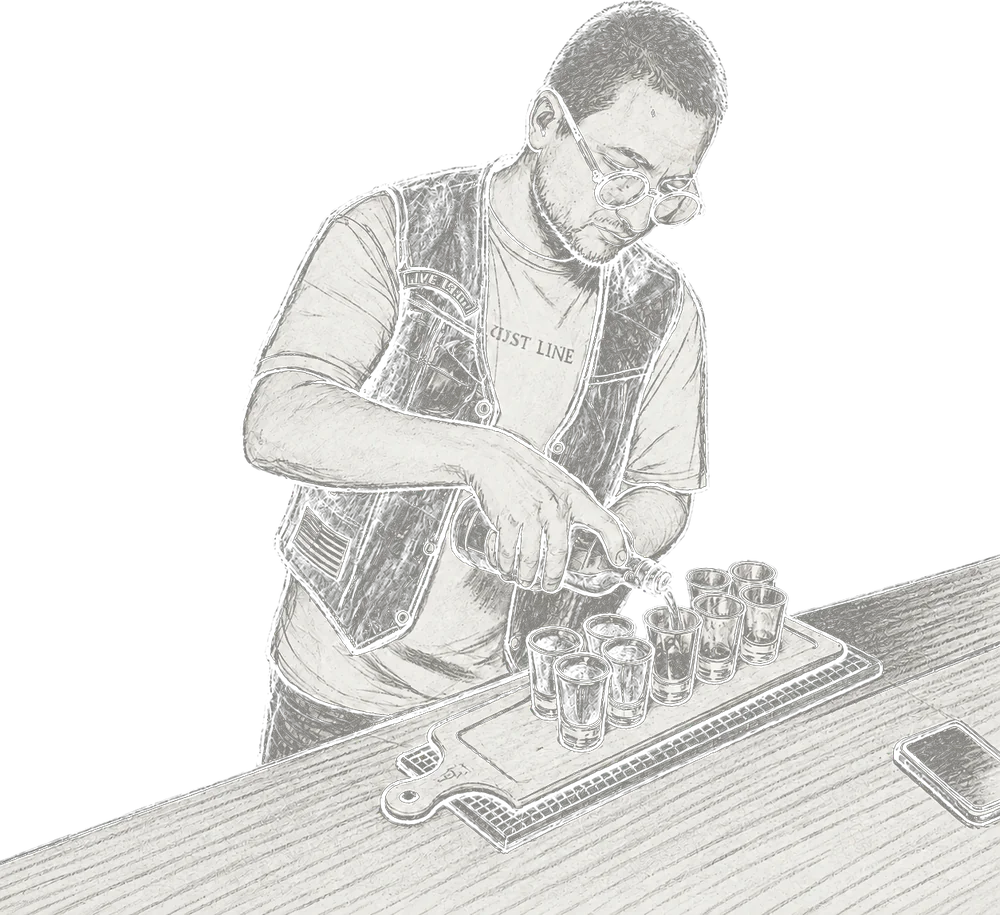
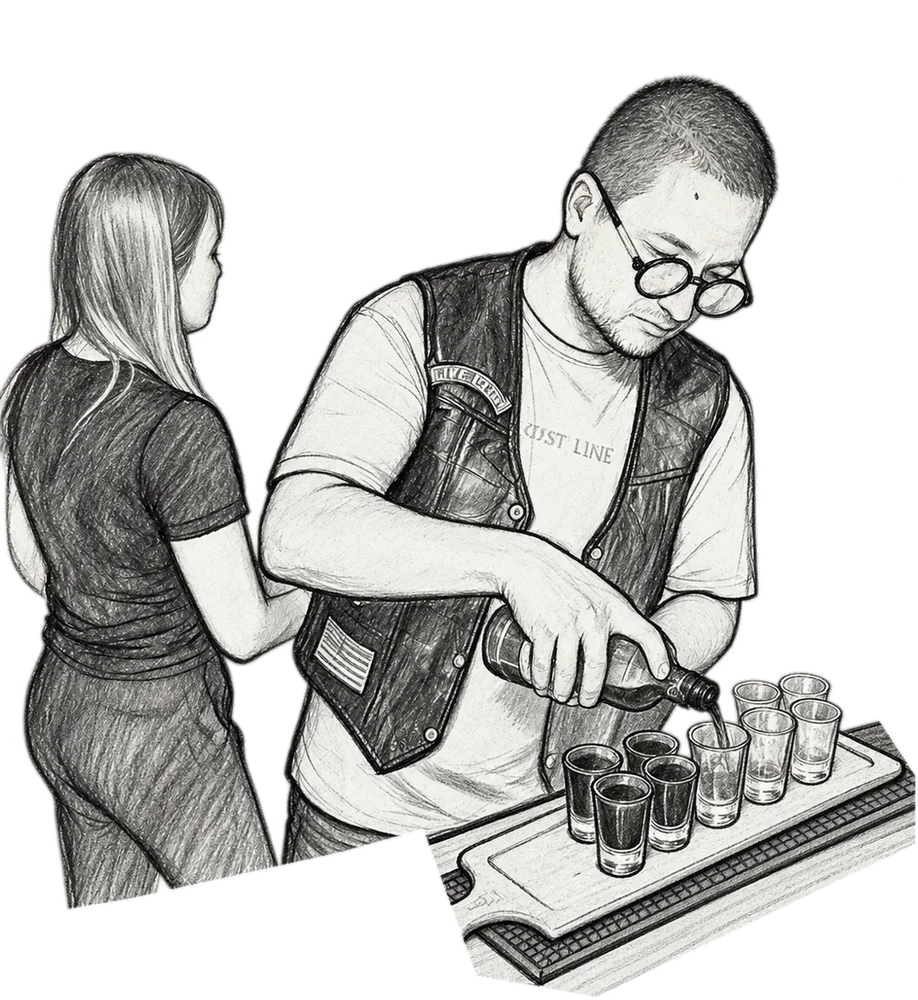
Swap bartender illustration to the two-person version, cut cleanly
Use the version with the woman (per client request), and mask out
the bar countertop the same way as before so it's a clean floating
silhouette with no hard rectangular edge.

Claude-Session: https://claude.ai/code/session_01WZpnxoFZR6xRiGAb4bRFBC

diff --git a/trigger/site/index.html b/trigger/site/index.html
@@ -380,7 +380,7 @@
       </div>
       <div class="about__row reveal">
         <div class="about__row__art">
-          <img src="assets/bartender.webp?v=3" alt="Настойки собственного производства">
+          <img src="assets/bartender.webp?v=4" alt="Настойки собственного производства">
           <span class="about__row__tag">домашние</span>
         </div>
         <div class="about__row__text">
